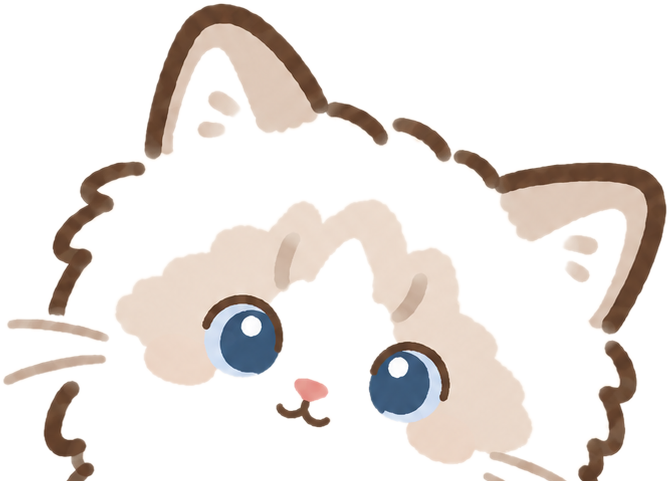
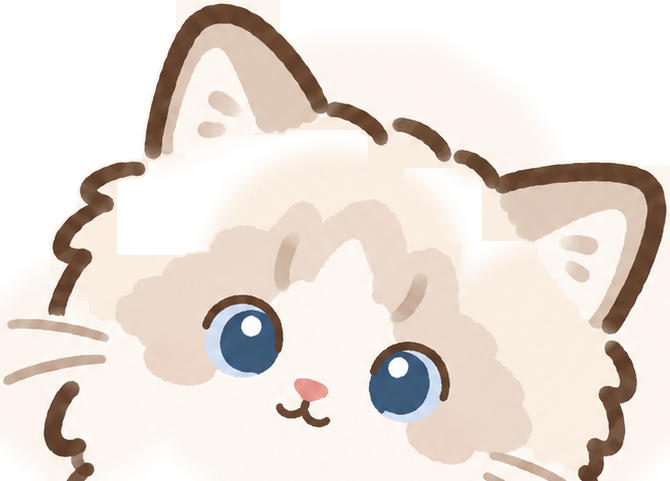
Fix Puff transparency in Page 1 asset

diff --git a/Page_1.html b/Page_1.html
@@ -1,5 +1,5 @@
 <!doctype html><html lang="zh-CN"><head><meta charset="utf-8"><meta name="viewport" content="width=device-width,initial-scale=1,viewport-fit=cover"><title>泡芙在门后</title><style>
 :root{--bg:#f6efe6;--line:#6f4c38;--door:#ead2bd;--frame:#d7b398;--ink:#8a6954}*{box-sizing:border-box}html,body{margin:0;width:100%;height:100%}body{overflow:hidden;font-family:"PingFang SC","Microsoft YaHei",sans-serif;color:var(--line);background:radial-gradient(circle at 20% 18%,rgba(255,255,255,.6),transparent 24%),linear-gradient(145deg,#f7f0e8,#efe3d5)}body:before{content:"";position:fixed;inset:0;opacity:.18;pointer-events:none;background:repeating-linear-gradient(0deg,rgba(111,76,56,.02) 0 1px,transparent 1px 4px)}.page{min-height:100svh;display:grid;place-items:center;padding:24px;transition:.65s}.page.leaving{opacity:0;transform:scale(1.025)}.stage{display:flex;flex-direction:column;align-items:center;transform:translateY(-1vh)}.scene{position:relative;width:300px;height:430px;cursor:pointer;filter:drop-shadow(0 18px 22px rgba(91,61,42,.14));-webkit-tap-highlight-color:transparent}.inside{position:absolute;left:26px;top:20px;width:248px;height:382px;border:5px solid var(--line);border-radius:130px 130px 16px 16px;overflow:hidden;background:radial-gradient(circle at 72% 36%,rgba(255,245,205,.95),transparent 33%),linear-gradient(160deg,#cda98d,#8b674f)}.puff-window{position:absolute;right:-8px;top:104px;width:142px;height:118px;overflow:hidden;z-index:2;opacity:0;transform:translateX(88px);animation:peek 5s ease-in-out infinite}.puff{position:absolute;width:280px;max-width:none;left:-84px;top:-43px;display:block}.eyelid{position:absolute;width:23px;height:12px;top:55px;border-radius:50%;background:#f4ede4;border-bottom:3px solid var(--line);opacity:0;transform:scaleY(.08);transform-origin:center bottom;z-index:3;animation:blink 5s linear infinite}.eyelid.l{left:39px}.eyelid.r{left:82px}.door{position:absolute;left:31px;top:25px;width:238px;height:372px;z-index:4;transform-origin:left center;border:5px solid var(--line);border-radius:122px 122px 13px 13px;background:linear-gradient(90deg,rgba(255,255,255,.18),transparent 28%),var(--door);animation:doorpeek 5s ease-in-out infinite;backface-visibility:hidden}.door:before{content:"";position:absolute;inset:18px;border:4px solid rgba(111,76,56,.78);border-radius:104px 104px 9px 9px}.knob{position:absolute;right:19px;top:53%;width:17px;height:17px;border:3px solid var(--line);border-radius:50%;background:#c58d65}.frame{position:absolute;inset:0;border:6px solid var(--line);border-radius:155px 155px 20px 20px;box-shadow:inset 0 0 0 13px var(--frame),inset 0 0 0 18px var(--line);pointer-events:none;z-index:5}.hint{margin:24px 0 0;min-height:36px;padding:4px 12px 7px;font-size:clamp(18px,4.8vw,22px);letter-spacing:.12em;color:var(--ink);opacity:0;transform:translateY(8px);transition:.75s;position:relative}.hint.show{opacity:1;transform:none}.hint:after{content:"";position:absolute;left:18%;right:18%;bottom:0;height:2px;background:rgba(111,76,56,.18);border-radius:99px}@keyframes doorpeek{0%{transform:perspective(900px) rotateY(0)}8%,50%{transform:perspective(900px) rotateY(-18deg)}60%,100%{transform:perspective(900px) rotateY(0)}}@keyframes peek{0%,8%{opacity:0;transform:translateX(88px)}18%,50%{opacity:1;transform:translateX(0)}60%,100%{opacity:0;transform:translateX(88px)}}@keyframes blink{0%,34%,38%,44%,48%,100%{opacity:0;transform:scaleY(.08)}35%,37%,45%,47%{opacity:1;transform:scaleY(1)}}.scene.open .door{animation:none;transition:transform .9s cubic-bezier(.22,.75,.18,1);transform:perspective(900px) rotateY(-72deg)}.scene.open .puff-window{animation:none;opacity:1;transform:translateX(3px);transition:.75s}.scene.open .eyelid{animation:none;opacity:0}@media(max-width:430px){.scene{transform:scale(.9);margin-block:-20px}}@media(prefers-reduced-motion:reduce){.door,.puff-window,.eyelid{animation:none!important}.door{transform:perspective(900px) rotateY(-16deg)}.puff-window{opacity:1;transform:none}.hint{opacity:1;transform:none}}
-</style></head><body><main class="page" id="page"><section class="stage"><div class="scene" id="scene" role="button" tabindex="0" aria-label="轻轻点一下门，进入下一页"><div class="inside"><div class="puff-window"><img class="puff" src="Page_1_Puff.png" alt=""><span class="eyelid l"></span><span class="eyelid r"></span></div></div><div class="door"><span class="knob"></span></div><div class="frame"></div></div><p class="hint" id="hint">轻轻点一下门</p></section></main><script>
+</style></head><body><main class="page" id="page"><section class="stage"><div class="scene" id="scene" role="button" tabindex="0" aria-label="轻轻点一下门，进入下一页"><div class="inside"><div class="puff-window"><img class="puff" src="./Page_1_Puff.png" alt=""><span class="eyelid l"></span><span class="eyelid r"></span></div></div><div class="door"><span class="knob"></span></div><div class="frame"></div></div><p class="hint" id="hint">轻轻点一下门</p></section></main><script>
 const scene=document.getElementById('scene'),hint=document.getElementById('hint'),page=document.getElementById('page');let opening=false;setTimeout(()=>hint.classList.add('show'),10000);function openDoor(){if(opening)return;opening=true;hint.classList.add('show');scene.classList.add('open');setTimeout(()=>page.classList.add('leaving'),1050);setTimeout(()=>location.href='page2.html',1750)}scene.addEventListener('click',openDoor);scene.addEventListener('keydown',e=>{if(e.key==='Enter'||e.key===' '){e.preventDefault();openDoor()}});
 </script></body></html>
